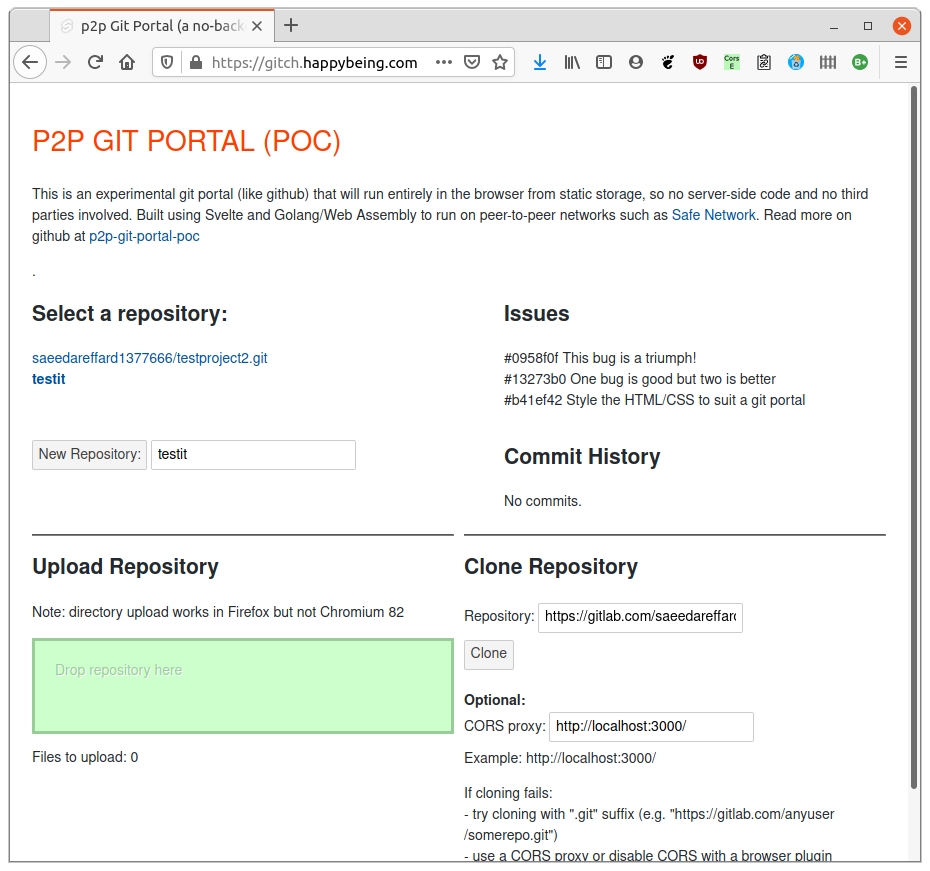
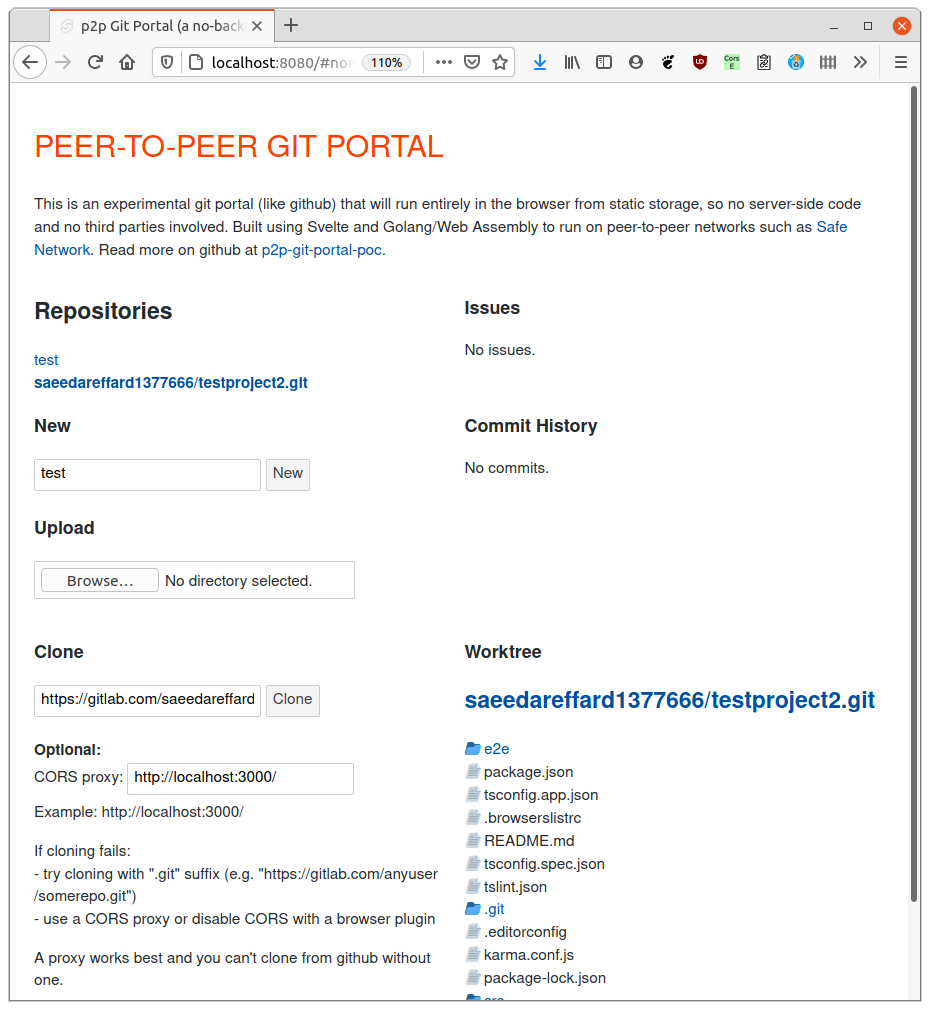
Rewrite sections of README and bring up-to-date

diff --git a/README.md b/README.md
@@ -1,8 +1,10 @@
 # p2p Git Portal - Proof of Concept
 
-The goal is a github like portal which can be hosted on peer-to-peer or static storage, initially targeting Safe Network. For example, a Safe Network in-browser app using `git-bug` and `go-git` libraries to create a realistic alternative to github.
+Git Portal is a github style sharing and collaboration application without server side code (no-backend).
 
-Using `git-bug` as a library will add support for issues (and later pull requests) to a `git` repo without polluting your commit history, with no need for server side hosting no service provider.
+- The aim is to provide an alternative to the centralisation of github and similar third party hosted services, and to avoid the need to self host such a service.
+- The approach is to provide web front end in a static application which can run in a browser directly from static or peer-to-peer storage without the need for server side code.
+- The benefit of this will be the convenience of a web application, without dependence on a third party and avoiding the vulnerabilities associated with servers and centralised services.
 
 Based on responses on [Mastodon](https://mastodon.technology/@happybeing) there's a lot of interest in a github alternative which is truly p2p, along with decentralisation and open source, which is very encouraging.
 
@@ -12,22 +14,38 @@ Based on responses on [Mastodon](https://mastodon.technology/@happybeing) there'
 
 **Forum (discourse):** [Git Portal Discussion](https://safenetforum.org/t/safenetwork-git-portal-discussion/32793?u=happybeing)
 
+## Screenshot
+<img src="./gitportal-poc-screenshot.png"/>
+
+## Objective
+The initial objective establish feasibility this project will create an initial app designed to run from static storage or on the peer-to-peer [Safe Network](https://safenetwork.tech) (a secure, anonymous, private peer-to-peer storage and communications platform). The result could then be adapted for use on any decentralised storage, and be the basis for more ambitious projects.
+## Approach
+
+The implementation identified `git-bug` (which adds issues to git functionality without polluting the commit history) and `go-git`/`go-billy` on which it depends. These are ideal for the proof-of-concept because they offer a good solution to providing issues on top of git, and a rapid route to prove the concept with a small team.
+
+Later the implementation will be reviewed in order to improve the technical solution. 
+
+Once we have a proof-of-concept application, a larger vision can be co-created which will align with the values and wants of collaborative software developers, as opposed to those of the Microsoft which owns and runs github for profit.
+### Golang v Rust
+
+One technical change to consider is moving from Golang/Wasm to Rust/Wasm to improve security and performance. Golang was chosen mainly for convenience and speed, but is slow, has a large runtime (12MB), and is not the best choice for building secure applications. All things which Rust/Wasm does very well.
+
 ## Proof of Concept Summary
 ### Architecture
 
 - Svelte UI plus Golang/Wasm using Golang wasm webpack plugin
-- *in the browser* "backend" with go-git/go-billy and git-bug (Golang/wasm)
+- *in the browser* 'no-backend' with go-git/go-billy and git-bug (Golang/wasm)
 
 ### Features
-- simple management of repos in browser (on go-billy/memfs)
-- ability to upload headless repo into go-billy/memfs
-- list repos, visit and interact with a repo
-- create and access git repo on a go-billy memfs file-system
-- use git-bug in browser to display and edit issues/comments
+- initialise, clone or upload repository 
+- list repositories
+- select and interact with a repository
+- browse the worktree, commits and issues
+- create/view/edit issues and comments
 
 ## Current Status
 
-**WORK IN PROGRESS** - everything above is working at least "under the hood". The UI is still more of a test harness, but if you open the browser console you get evidence of what is working.
+Most of the above feautures are either working or proven to be feasible by the work done so far. The UI is still a test harness but work has begun (mid December 2020) to provide a more github like look and feel.
 
 Remaining activity for the proof-of-concept:
 
@@ -44,6 +62,8 @@ Remaining activity for the proof-of-concept:
 - **Modify git-bug** to work with a billy.Filesystem and compile to web assembly. **Status:** I got this! The fork [happybeing/git-bug](https://github.com/happybeing/git-bug) is sufficient for remaining work to complete this proof-of-concept. [@happybeing](https://github.com/happybeing) will bring it up to date with the latest git-bug and work with git-bug author [@MichaelMure](https://github.com/MichaelMure) to provide a proper API for use by apps, as summarised in this [issue comment](https://github.com/happybeing/git-bug/issues/2#issuecomment-742494498).
 
 #### HTML / CSS Work
+(Begun mid Deceber 2020)
+
 The app in branch `main` runs and uses default Svelte HTML/CSS styling.
 
 I believe we should change the look and feel to mirror github in the short term. The reason being to help highlight our aim of replicating the key features of a git portal like github.
@@ -104,9 +124,6 @@ If you have problems, open the web browser console to look for any error message
 
 Note: drag and drop of files is not properly supported yet.
 
-### Screenshot
-<img src="./gitportal-poc-screenshot.png"/>
-
 ### Development
 Hot reloading generally works well, but if you have problems getting rid of a compilation error after you think you've fixed it, restart the `yarn dev` command.
 
@@ -139,4 +156,4 @@ If you wish to build or contribute to the code, get in touch and I'll add some b
 
 Everything is GPL3.0 unless otherwise stated. Any contributions are accepted on the condition they conform to this license.
 
-See also ./LICENSE
+See also [./LICENSE](./LICENSE)
